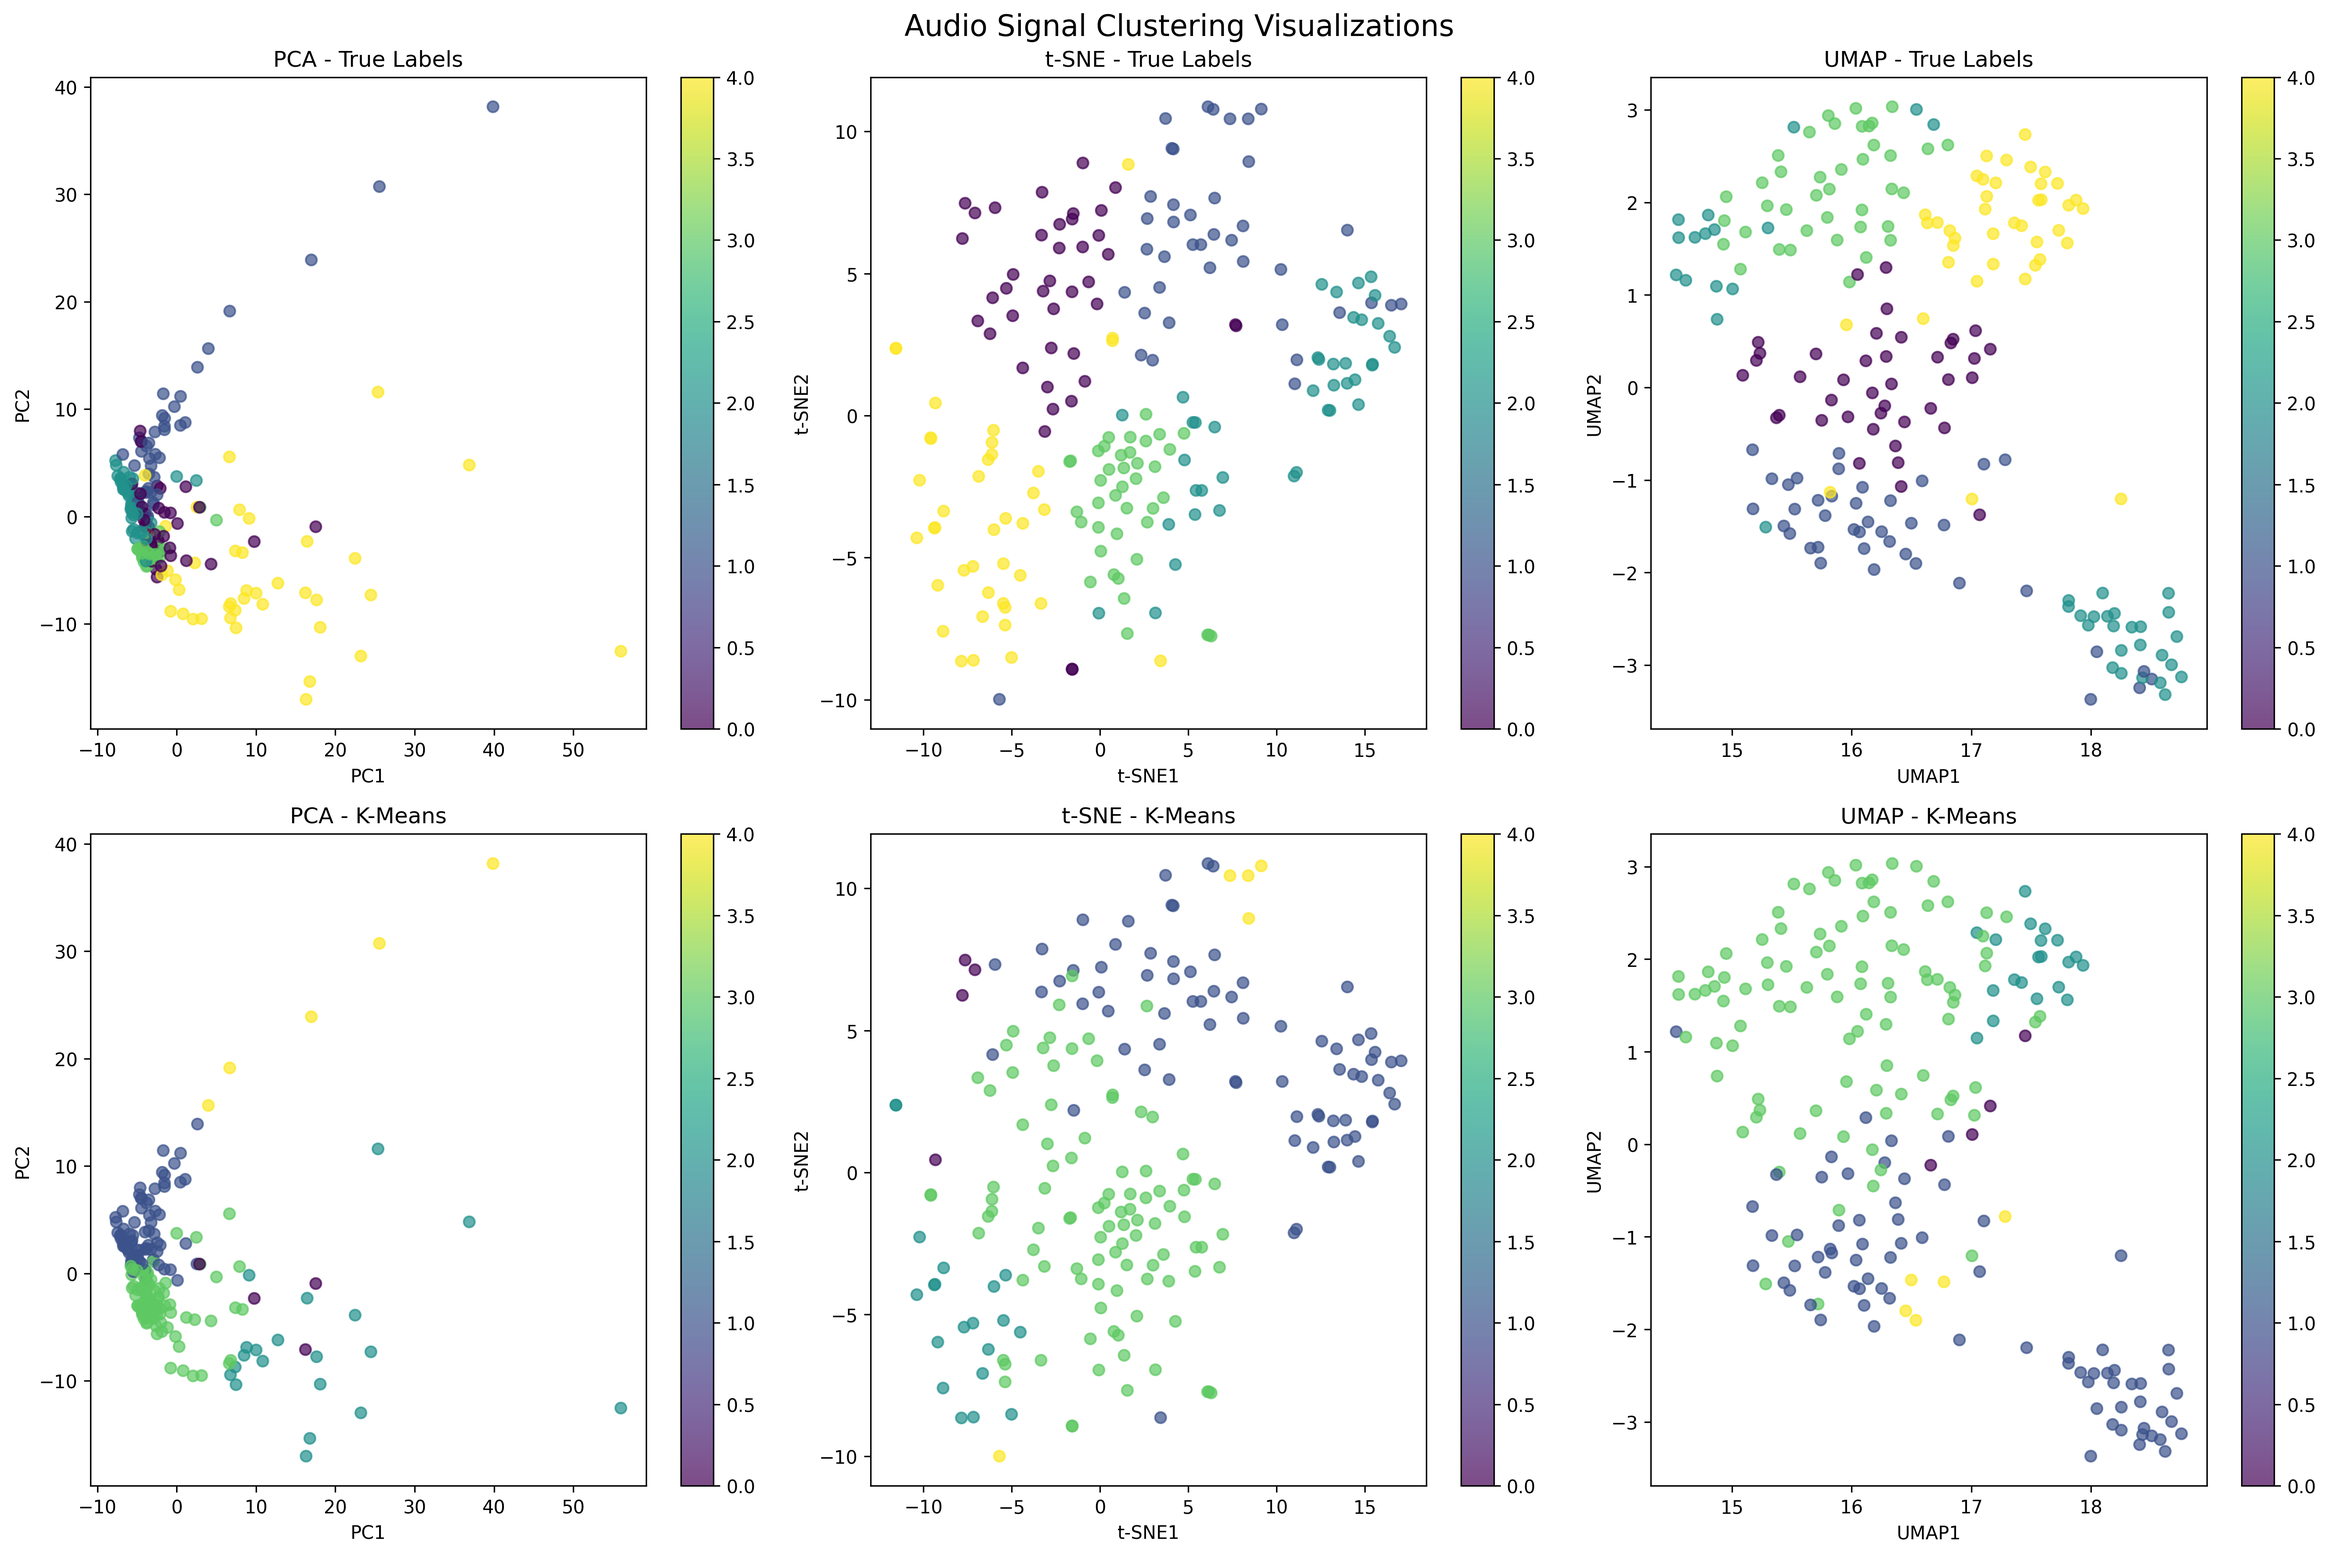
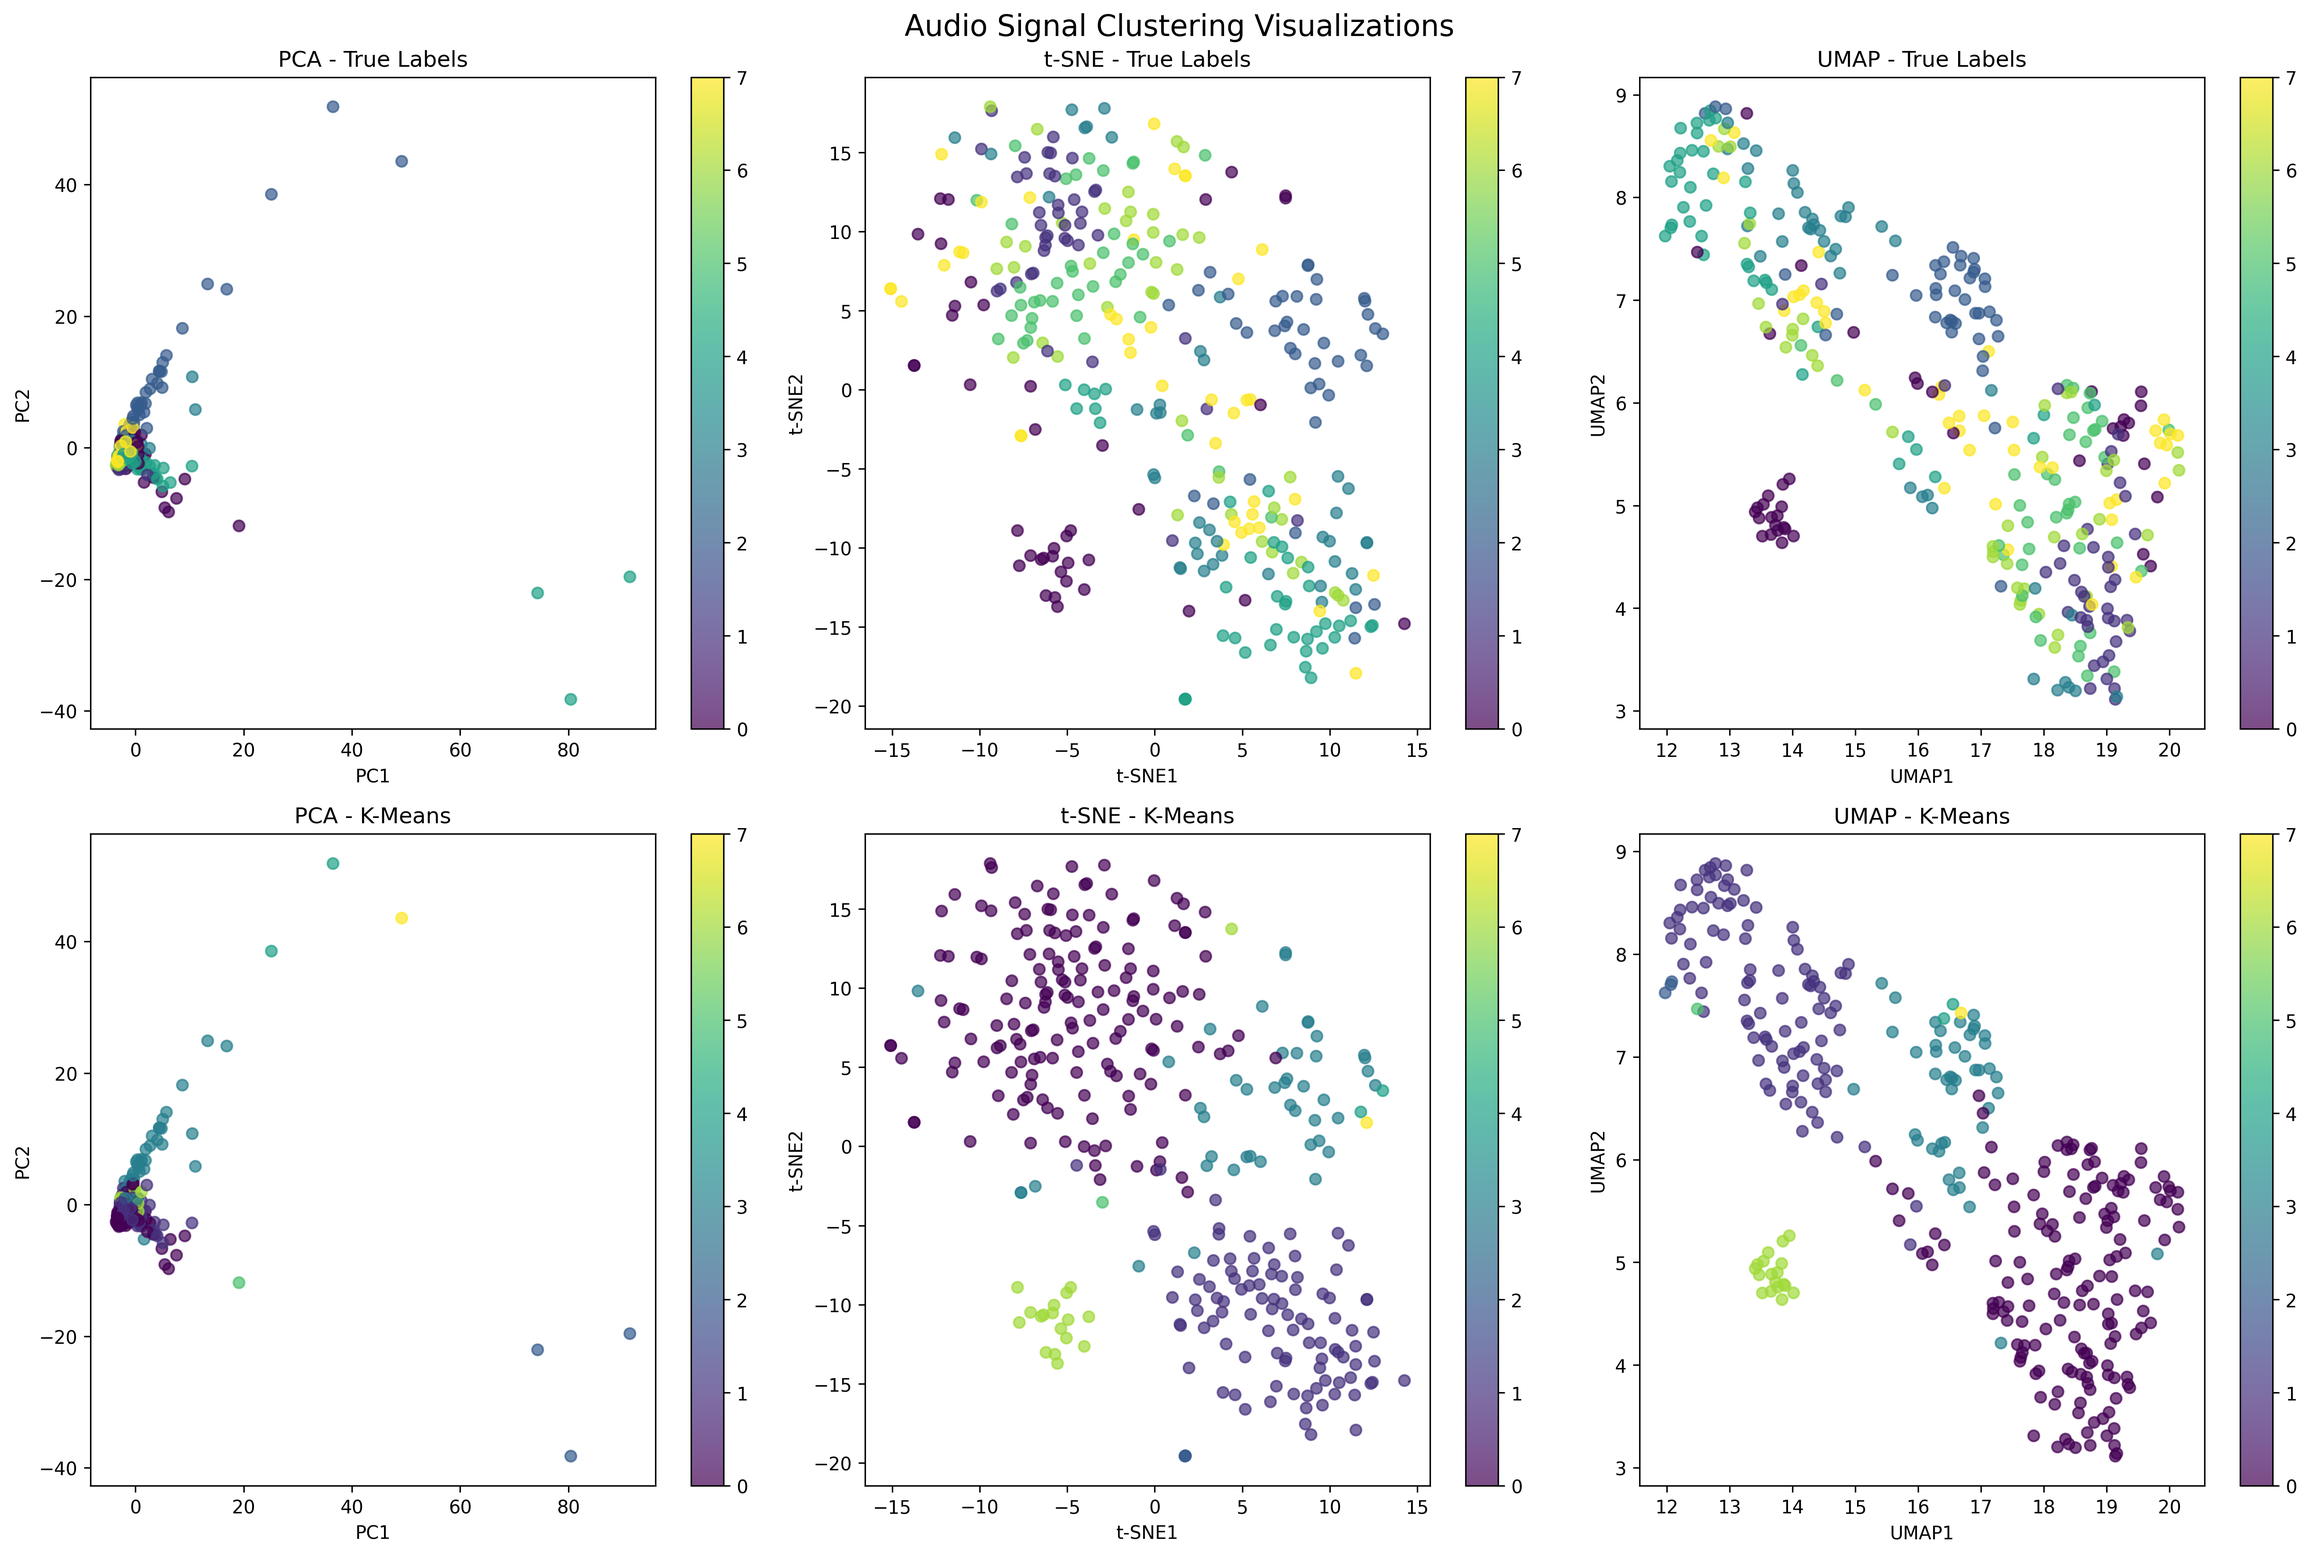
Include results and visualizations in repo

diff --git a/README.md b/README.md
@@ -48,89 +48,30 @@ python main.py
 
 ### Ouput
 
-```
-(apre_env) (base) rajababu@Rajas-MacBook-Air apre-core % python main.py
-Starting Audio Pattern Recognition Engine (APRE)
-==================================================
-Detected accelerators: {'has_cuda_gpu': False, 'mps_available': False, 'gpu_devices': []}
-
-1. Loading ESC-50 Dataset...
-ESC-50 data already exists, skipping download.
-ESC-50 metadata loaded: 2000 clips
-Available categories: ['sheep', 'dog', 'crackling_fire', 'pig', 'car_horn', 'water_drops', 'cat', 'breathing', 'mouse_click', 'door_wood_creaks', 'door_wood_knock', 'brushing_teeth', 'siren', 'airplane', 'sneezing', 'train', 'glass_breaking', 'clapping', 'cow', 'helicopter'] ...
-Selected classes for this run: ['dog', 'chirping_birds', 'vacuum_cleaner', 'thunderstorm', 'door_wood_knock']
-Number of clips selected: 200
-
-2. Extracting Advanced Audio Features...
-Extracting advanced features (sequential processing to avoid segfaults)...
-Processing audio files: 100%|███████████████████████████████████████████████████████████████████████████████████████████████████████████████████| 200/200 [00:52<00:00,  3.78it/s]
-Feature matrix shape: (200, 437)
-Classes: ['chirping_birds' 'dog' 'door_wood_knock' 'thunderstorm' 'vacuum_cleaner']
-
-3. Applying Dimensionality Reduction...
-Applying dimensionality reduction techniques...
-PCA reduced to 69 components (svd_solver='auto')
-t-SNE perplexity set to 30
-OMP: Info #276: omp_set_nested routine deprecated, please use omp_set_max_active_levels instead.
-
-4. Creating Autoencoder Representation...
-
-5. Applying Clustering Algorithms...
-Clustering with multiple algorithms...
-
-6. Applying Deep Embedded Clustering...
-
-7. Training Supervised Learning Models...
-XGBoost configured for CPU.
-
-8. Training CNN Model...
-WARNING:tensorflow:5 out of the last 15 calls to <function TensorFlowTrainer.make_predict_function.<locals>.one_step_on_data_distributed at 0x16d347d80> triggered tf.function retracing. Tracing is expensive and the excessive number of tracings could be due to (1) creating @tf.function repeatedly in a loop, (2) passing tensors with different shapes, (3) passing Python objects instead of tensors. For (1), please define your @tf.function outside of the loop. For (2), @tf.function has reduce_retracing=True option that can avoid unnecessary retracing. For (3), please refer to https://www.tensorflow.org/guide/function#controlling_retracing and https://www.tensorflow.org/api_docs/python/tf/function for  more details.
-WARNING:tensorflow:6 out of the last 16 calls to <function TensorFlowTrainer.make_predict_function.<locals>.one_step_on_data_distributed at 0x16d347d80> triggered tf.function retracing. Tracing is expensive and the excessive number of tracings could be due to (1) creating @tf.function repeatedly in a loop, (2) passing tensors with different shapes, (3) passing Python objects instead of tensors. For (1), please define your @tf.function outside of the loop. For (2), @tf.function has reduce_retracing=True option that can avoid unnecessary retracing. For (3), please refer to https://www.tensorflow.org/guide/function#controlling_retracing and https://www.tensorflow.org/api_docs/python/tf/function for  more details.
-
-9. Evaluating Results...
-
+```text
 ===== RESULTS SUMMARY =====
-Selected classes: ['chirping_birds' 'dog' 'door_wood_knock' 'thunderstorm' 'vacuum_cleaner']
-
-📊 Metric Explanations:
-• Accuracy: Classification accuracy (higher = better)
-• ARI: Adjusted Rand Index for clustering (higher = better, max=1)
-• NMI: Normalized Mutual Information for clustering (higher = better, max=1)
-• Silhouette: Cluster quality measure (higher = better, range=-1 to 1)
-• N/A: Metric not applicable to this algorithm type
+Selected classes: ['clock_alarm' 'crackling_fire' 'dog' 'door_wood_knock' 'glass_breaking' 'keyboard_typing' 'mouse_click' 'water_drops']
 
 🎯 CLUSTERING METHODS (Unsupervised):
                     Accuracy     ARI     NMI Silhouette
-K-Means               0.5000  0.2213  0.3582   0.099059
+K-Means               0.3812  0.1598  0.3135   0.129156
 DBSCAN                0.0000  0.0000  0.0000         -1
-GMM                   0.6100  0.3505  0.4812        N/A
-Spectral              0.8350  0.6598  0.7108        N/A
-HDBSCAN               0.6818  0.2139  0.2626   0.001709
-UMAP+KMeans           0.8150  0.6133  0.6605   0.477684
-Autoencoder+KMeans    0.4600  0.1553  0.2729   0.291201
-DEC                   0.5000  0.2213  0.3582        N/A
+GMM                   0.4188  0.1801  0.3616        N/A
+Spectral              0.4812  0.2368  0.3563        N/A
+HDBSCAN               0.4167  0.0992  0.1486   0.000255
+UMAP+KMeans           0.4969  0.2251  0.3558   0.492414
+Autoencoder+KMeans    0.3562  0.1314  0.2823   0.276569
+DEC                   0.3812  0.1598  0.3135        N/A
 
 🤖 SUPERVISED METHODS:
          Accuracy  Precision  Recall  F1-Score
-MLP         0.925     0.9306   0.925    0.9229
-XGBoost     0.925     0.9314   0.925    0.9244
-CNN         0.625     0.7407   0.625    0.6318
+MLP        0.7031     0.6951  0.7031    0.6791
+XGBoost    0.7812     0.8164  0.7812    0.7813
+CNN        0.7188     0.7405  0.7188    0.7200
 
 📈 BEST PERFORMERS BY CATEGORY:
-• Best Clustering Method: Spectral (83.5%)
-• Best Supervised Method: MLP (92.5%)
-
-==========================
-
-
-10. Creating Visualizations...
-Creating visualizations...
-Saved clustering visualizations to clustering_visualizations.png
-Saved confusion matrix to confusion_matrix.png
-Saved feature importance plot to feature_importance.png
-Analysis completed successfully!
-Generated visualizations saved as PNG files in the current directory.
-==================================================
+• Best Clustering Method: UMAP+KMeans (49.7%)
+• Best Supervised Method: XGBoost (78.1%)
 ```
 
 ## Configuration
